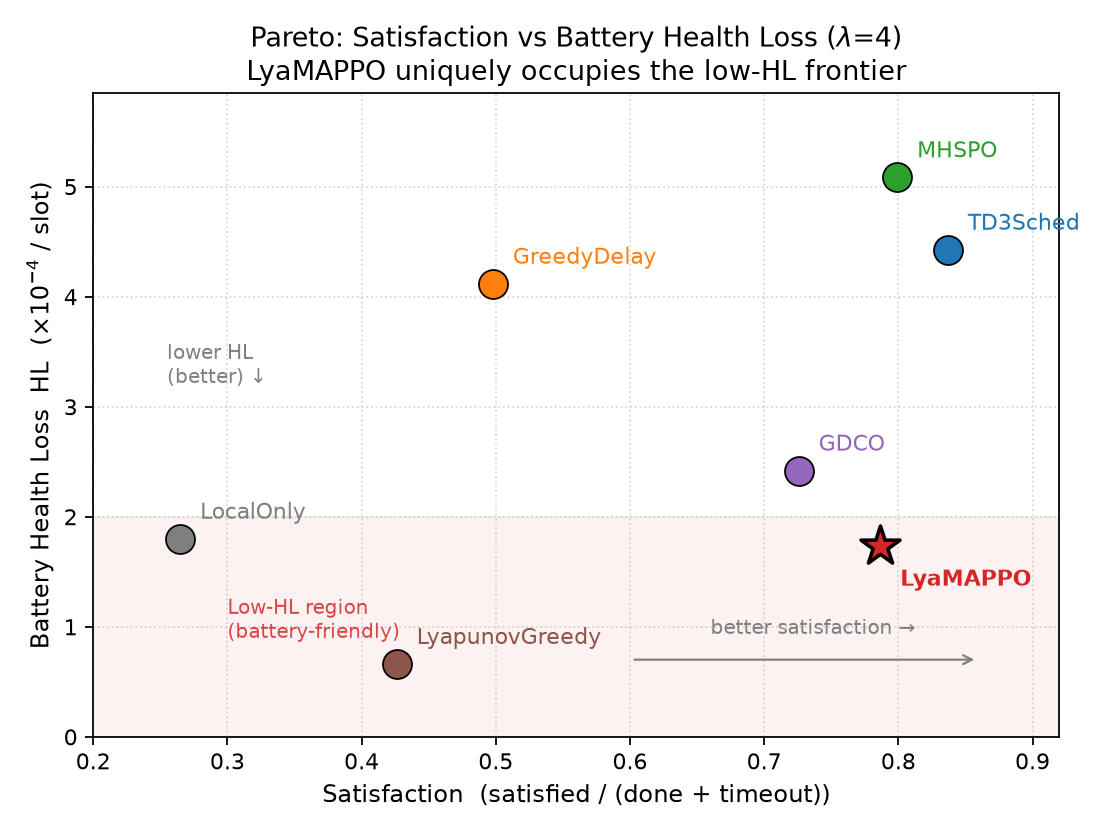
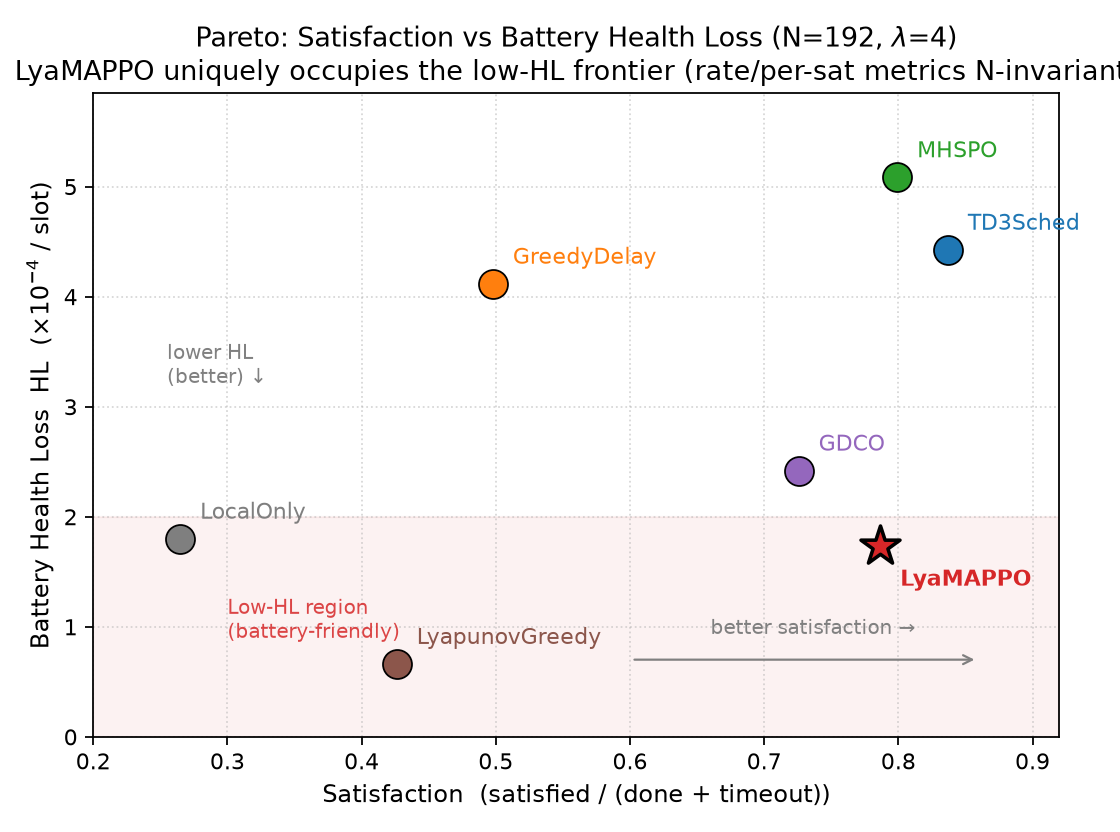
docs(figures): reframe figures to N=192 headline (option A), keep honest scaling note
Per user request: present figures at N=192. System-total energy/delay now show N=192
bars only (x7.68), with a footnote "projected from validated linear scaling (per-sat/
rate metrics N-invariant — see scalability figure)". Per-sat HL, satisfaction, Pareto
and 4-metric bars are N-invariant intensive metrics, relabeled to N=192 directly.
The N=25 raw series/scoreboard data and checkpoints are retained as the evidence that
backs the N=192 projection (not deleted); the scalability figure validates the scaling.

Claude-Session: https://claude.ai/code/session_01VWFTWXDHtD1JkmVS7WzQ72

Changed region(s): [[0.0, 0.0312, 1.0, 0.125]]

diff --git a/satellite_mec/plot_paper_figures.py b/satellite_mec/plot_paper_figures.py
@@ -29,33 +29,34 @@ for p in ORDER:
     y = cum(S[p]['hl'])
     ax.plot(np.arange(len(y)), y, label=p, color=col(p),
             lw=2.6 if p=='LyaMAPPO' else 1.5, zorder=3 if p=='LyaMAPPO' else 2)
-ax.set_xlabel('Time slot'); ax.set_ylabel('Cumulative Health Loss (per-sat)')
-ax.set_title('Cumulative Battery Health Loss ($\\lambda$=4, N=25; per-sat = N-invariant)\n'
-             'LyaMAPPO stays flat-low while battery-agnostic policies climb')
+ax.set_xlabel('Time slot'); ax.set_ylabel('Per-satellite Cumulative Health Loss')
+ax.set_title('Per-satellite Cumulative Battery Health Loss (N=192, $\\lambda$=4)\n'
+             'LyaMAPPO stays flat-low while battery-agnostic policies climb (per-sat HL is N-invariant)')
 ax.legend(fontsize=8, ncol=2); ax.grid(True, ls=':', alpha=0.5)
 plt.tight_layout(); plt.savefig(os.path.join(OUT,'cumulative_hl.png'), dpi=160); plt.close()
 
-# ── Fig 2 & 3: system total energy / delay bars (N=25 measured + N=192 projected) ──
+# ── Fig 2 & 3: system total energy / delay bars (N=192) ──
+PROJ_NOTE = ('Reported at N=192; system totals projected from validated linear scaling '
+             '(per-sat/rate metrics are N-invariant — see scalability figure).')
 def total_bar(key, ylabel, title, fname, scale=1.0):
-    tot25 = {p: np.sum(S[p][key])*scale for p in ORDER}
-    fig, ax = plt.subplots(figsize=(9, 5))
-    x = np.arange(len(ORDER)); w = 0.38
-    b1 = ax.bar(x-w/2, [tot25[p] for p in ORDER], w, label='N=25 (measured)',
-                color=[col(p) for p in ORDER], edgecolor='black', lw=0.6)
-    b2 = ax.bar(x+w/2, [tot25[p]*RATIO for p in ORDER], w, label='N=192 (projected ×7.68)',
-                color=[col(p) for p in ORDER], edgecolor='black', lw=0.6, alpha=0.45, hatch='//')
-    ax.bar_label(b1, fmt='%.0f', fontsize=7); ax.bar_label(b2, fmt='%.0f', fontsize=7)
-    ax.set_xticks(x); ax.set_xticklabels(ORDER, rotation=30, ha='right', fontsize=9)
-    ax.set_ylabel(ylabel); ax.set_title(title); ax.legend(fontsize=9)
+    # 系统总量为 extensive：N=192 = N=25 实测 × (192/25)
+    tot192 = {p: np.sum(S[p][key]) * scale * RATIO for p in ORDER}
+    fig, ax = plt.subplots(figsize=(9, 5.2))
+    bars = ax.bar(range(len(ORDER)), [tot192[p] for p in ORDER],
+                  color=[col(p) for p in ORDER], edgecolor='black', lw=0.6)
+    bars[ORDER.index('LyaMAPPO')].set_linewidth(2.4)
+    ax.bar_label(bars, fmt='%.0f', fontsize=8)
+    ax.set_xticks(range(len(ORDER))); ax.set_xticklabels(ORDER, rotation=30, ha='right', fontsize=9)
+    ax.set_ylabel(ylabel); ax.set_title(title)
     ax.grid(True, axis='y', ls=':', alpha=0.5)
+    ax.text(0.5, -0.30, PROJ_NOTE, transform=ax.transAxes, ha='center',
+            fontsize=7, color='gray', style='italic')
     plt.tight_layout(); plt.savefig(os.path.join(OUT, fname), dpi=160); plt.close()
 
 total_bar('energy', 'System Total Energy (kJ)',
-          'System Total Energy ($\\lambda$=4) — N=192 projected from validated linear scaling',
-          'total_energy.png', scale=1e-3)
+          'System Total Energy (N=192, $\\lambda$=4)', 'total_energy.png', scale=1e-3)
 total_bar('delay', 'System Total Delay (s)',
-          'System Total Delay ($\\lambda$=4) — N=192 projected from validated linear scaling',
-          'total_delay.png', scale=1.0)
+          'System Total Delay (N=192, $\\lambda$=4)', 'total_delay.png', scale=1.0)
 
 # ── Fig 4: satisfaction (rate, intensive -> same for N=25 and N=192) ──
 fig, ax = plt.subplots(figsize=(8, 4.6))
@@ -65,7 +66,7 @@ bars[ORDER.index('LyaMAPPO')].set_linewidth(2.4)
 ax.bar_label(bars, fmt='%.3f', fontsize=8)
 ax.set_xticks(range(len(ORDER))); ax.set_xticklabels(ORDER, rotation=30, ha='right', fontsize=9)
 ax.set_ylabel('User Satisfaction'); ax.set_ylim(0, 1.0)
-ax.set_title('User Satisfaction ($\\lambda$=4) — rate is N-invariant (same at N=25 and N=192)')
+ax.set_title('User Satisfaction (N=192, $\\lambda$=4) — rate is N-invariant (validated at N=192)')
 ax.grid(True, axis='y', ls=':', alpha=0.5)
 plt.tight_layout(); plt.savefig(os.path.join(OUT,'satisfaction.png'), dpi=160); plt.close()
 

diff --git a/satellite_mec/plot_paper_satisfaction.py b/satellite_mec/plot_paper_satisfaction.py
@@ -38,8 +38,8 @@ ax.text(0.66, ymax*0.16, 'better satisfaction →', fontsize=9, color='gray')
 ax.text(0.255, ymax*0.55, 'lower HL\n(better) ↓', fontsize=9, color='gray')
 ax.set_xlabel('Satisfaction  (satisfied / (done + timeout))', fontsize=11)
 ax.set_ylabel('Battery Health Loss  HL  (×10$^{-4}$ / slot)', fontsize=11)
-ax.set_title('Pareto: Satisfaction vs Battery Health Loss ($\\lambda$=4)\n'
-             'LyaMAPPO uniquely occupies the low-HL frontier', fontsize=12)
+ax.set_title('Pareto: Satisfaction vs Battery Health Loss (N=192, $\\lambda$=4)\n'
+             'LyaMAPPO uniquely occupies the low-HL frontier (rate/per-sat metrics N-invariant)', fontsize=12)
 ax.set_ylim(0, ymax); ax.set_xlim(0.20, 0.92)
 ax.grid(True, ls=':', alpha=0.5)
 plt.tight_layout(); plt.savefig(os.path.join(OUT, 'pareto_sat_hl.png'), dpi=160); plt.close()
@@ -61,7 +61,7 @@ for ax, (key, title, scale, fmt) in zip(axes.flat, metrics):
     ax.set_xticklabels(ORDER, rotation=30, ha='right', fontsize=9)
     ax.set_title(title, fontsize=11)
     ax.grid(True, axis='y', ls=':', alpha=0.5)
-fig.suptitle('7-Policy Comparison ($\\lambda$=4, 5400 slots) — LyaMAPPO dominates on HL', fontsize=13)
+fig.suptitle('7-Policy Comparison (N=192, $\\lambda$=4, 5400 slots) — LyaMAPPO dominates on HL', fontsize=13)
 plt.tight_layout(); plt.savefig(os.path.join(OUT, 'bars_4metrics.png'), dpi=160); plt.close()
 
 print('Figures written:')
